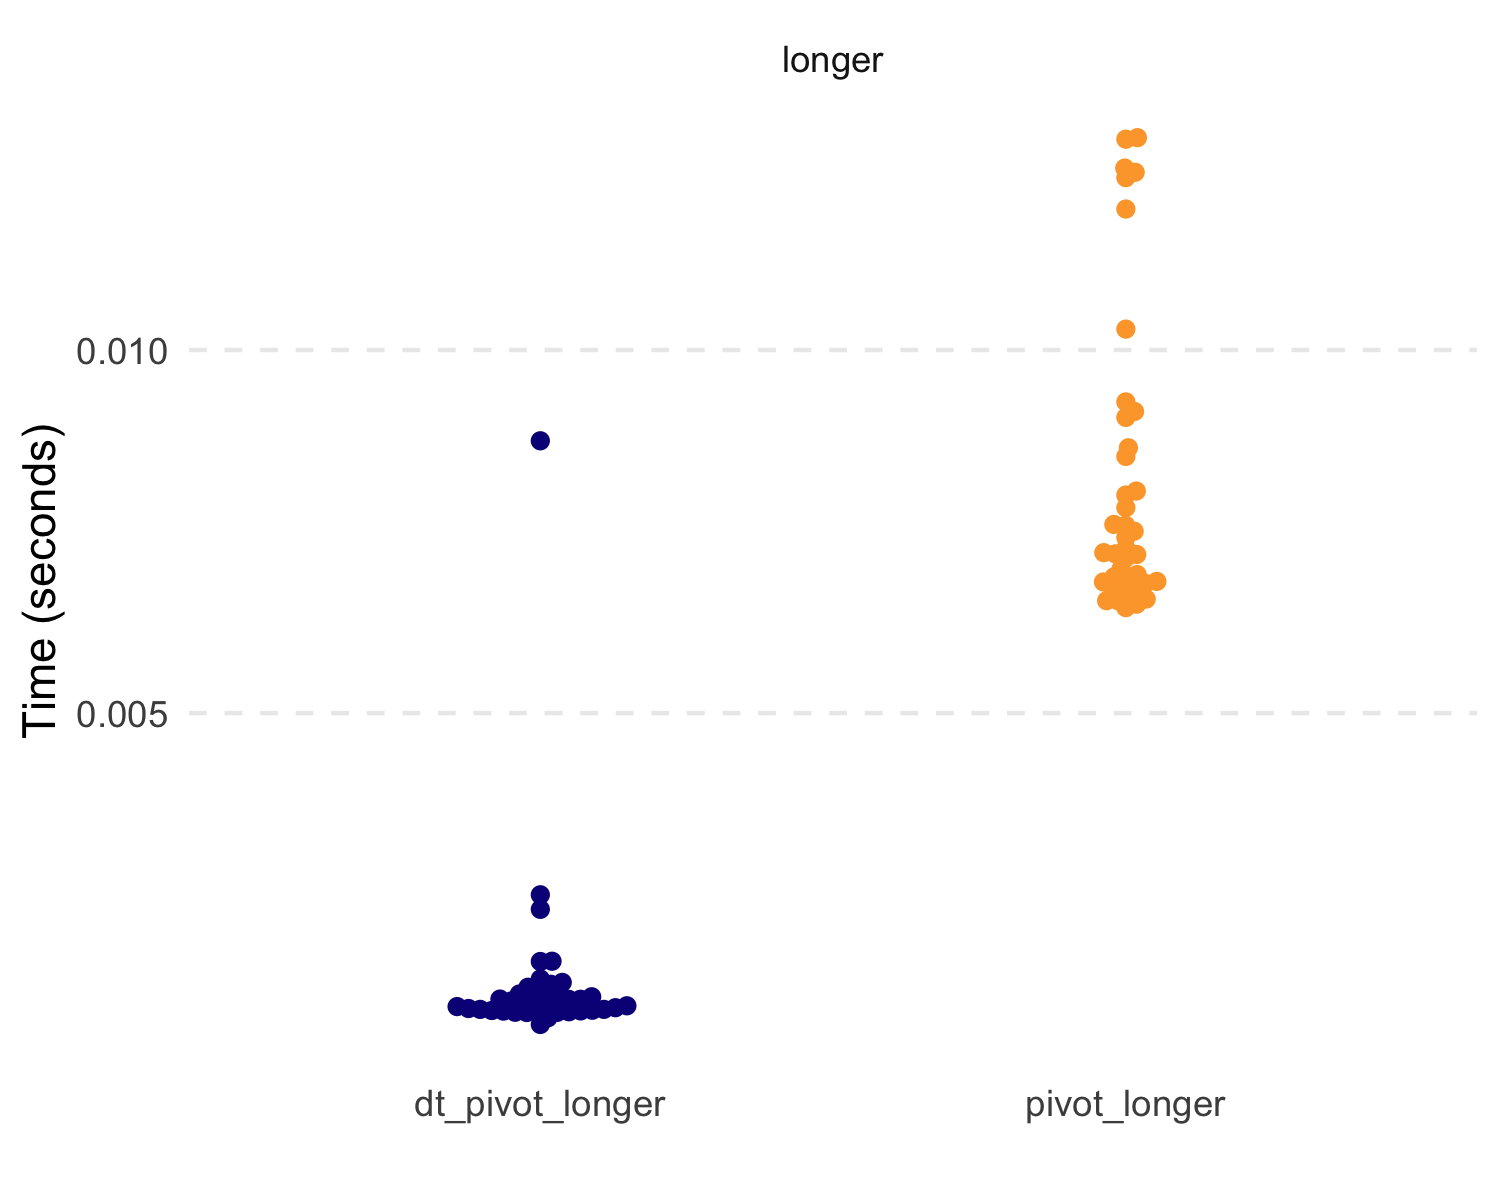
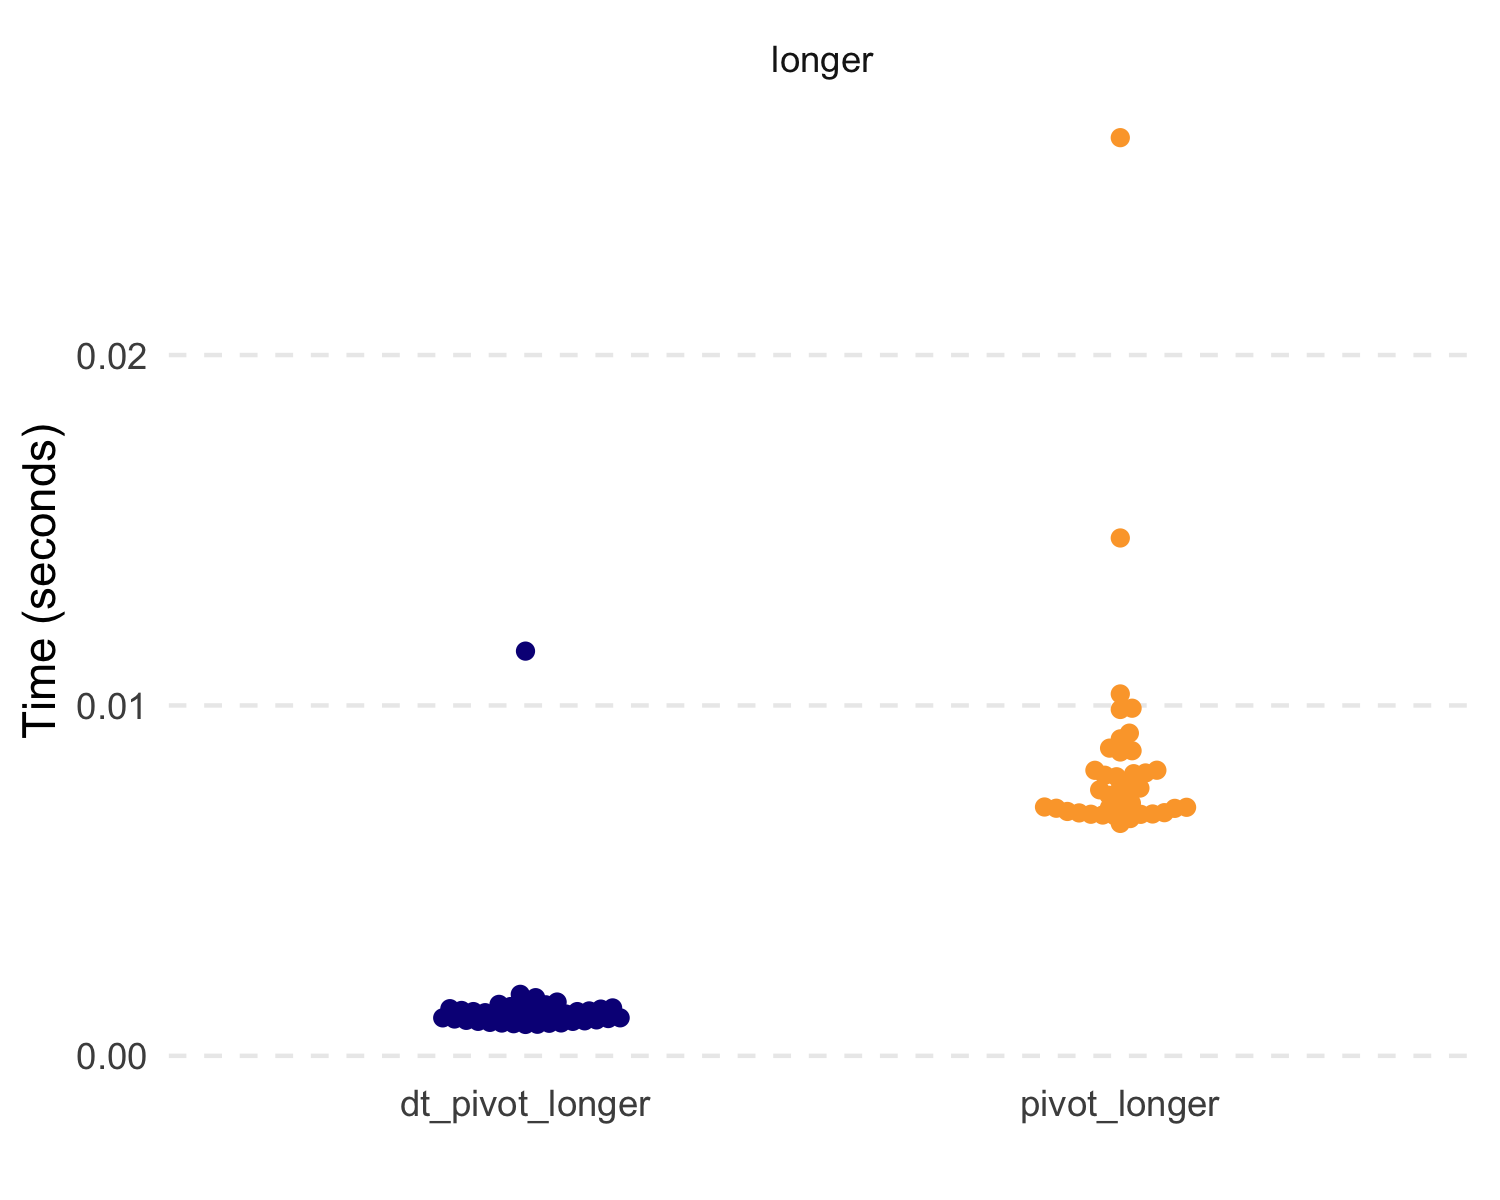
updated readme

diff --git a/README.md b/README.md
@@ -208,13 +208,13 @@ highlighted below. Notably, the timings are without the `nested1` and
     #> # A tibble: 2 x 3
     #>   expression   median mem_alloc
     #>   <chr>      <bch:tm> <bch:byt>
-    #> 1 dt_nest      3.18ms    2.88MB
-    #> 2 group_nest   5.35ms    2.56MB
+    #> 1 dt_nest       3.5ms    2.88MB
+    #> 2 group_nest   5.78ms    2.56MB
     #> # A tibble: 2 x 3
     #>   expression   median mem_alloc
     #>   <chr>      <bch:tm> <bch:byt>
-    #> 1 dt_unnest    4.62ms    5.48MB
-    #> 2 unnest       9.25ms    5.77MB
+    #> 1 dt_unnest    4.78ms    5.48MB
+    #> 2 unnest       9.51ms    5.77MB
 
 ## Pivoting
 
@@ -288,10 +288,10 @@ efficient.
     #> # A tibble: 4 x 3
     #>   expression        median mem_alloc
     #>   <chr>           <bch:tm> <bch:byt>
-    #> 1 dt_pivot_longer  993.7µs  996.21KB
-    #> 2 pivot_longer      7.19ms    2.67MB
-    #> 3 dt_pivot_wider    9.56ms    1.86MB
-    #> 4 pivot_wider       18.5ms    1.96MB
+    #> 1 dt_pivot_longer   1.18ms  996.21KB
+    #> 2 pivot_longer      7.46ms    2.67MB
+    #> 3 dt_pivot_wider   10.31ms    1.86MB
+    #> 4 pivot_wider      20.03ms    1.96MB
 
 ### If Else
 
@@ -340,9 +340,9 @@ built on `data.table::fifelse()`.
     #> # A tibble: 3 x 3
     #>   expression     median mem_alloc
     #>   <chr>        <bch:tm> <bch:byt>
-    #> 1 case_when     133.1ms   148.8MB
-    #> 2 dt_case_when   37.9ms    34.3MB
-    #> 3 fifelse        33.9ms    34.3MB
+    #> 1 case_when       141ms   148.8MB
+    #> 2 dt_case_when   38.2ms    34.3MB
+    #> 3 fifelse        35.5ms    34.3MB
 
 ## Fill
 
@@ -450,8 +450,8 @@ marks3 <-
     #> # A tibble: 2 x 3
     #>   expression                                    median mem_alloc
     #>   <bch:expr>                                  <bch:tm> <bch:byt>
-    #> 1 tidyr::fill(dplyr::group_by(df3, id), x, y)   63.4ms    30.7MB
-    #> 2 tidyfast::dt_fill(dt3, x, y, id = list(id))   24.6ms    29.1MB
+    #> 1 tidyr::fill(dplyr::group_by(df3, id), x, y)   62.2ms    30.7MB
+    #> 2 tidyfast::dt_fill(dt3, x, y, id = list(id))   23.9ms    29.1MB
 
 ## Separate
 
@@ -493,9 +493,9 @@ than `tidyr::separate()`.
     #> # A tibble: 3 x 3
     #>   expression            median mem_alloc
     #>   <chr>               <bch:tm> <bch:byt>
-    #> 1 separate               319ms    11.7MB
-    #> 2 dt_separate            112ms    30.6MB
-    #> 3 dt_separate-mutable    103ms    26.7MB
+    #> 1 separate               362ms    11.7MB
+    #> 2 dt_separate            109ms    30.6MB
+    #> 3 dt_separate-mutable    104ms    26.7MB
 
 ## Count and Uncount
 
@@ -566,8 +566,8 @@ project, you agree to abide by its terms.
 
 We want to thank our wonderful contributors:
 
-  - [mtfairbanks](https://github.com/markfairbanks) for PR \#6 providing
-    initial the pivoting functions. Note the
+  - [markfairbanks](https://github.com/markfairbanks) for PR \#6
+    providing initial the pivoting functions. Note the
     [`gdt`](https://github.com/markfairbanks/tidytable) package that
     compliments some of `tidyfast`s functionality.
 
